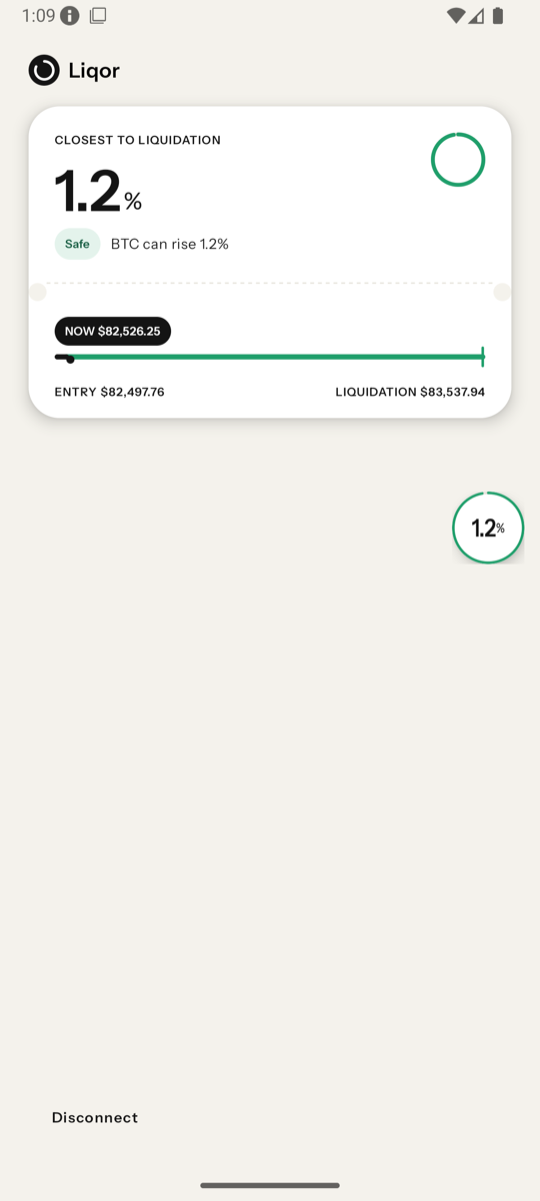
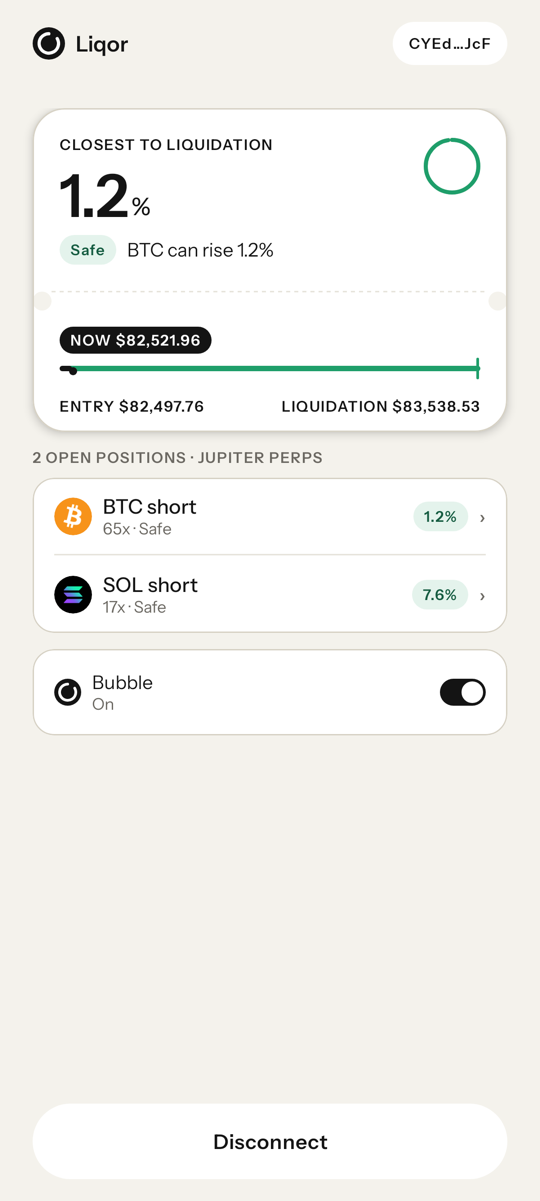
Show every main screen in the README at one size

diff --git a/README.md b/README.md
@@ -8,18 +8,28 @@ Open a leveraged Jupiter Perps trade, switch to X, Telegram or a game, and the m
   <tr>
     <td><img src="screenshots/bubble.png" width="240" alt="Bubble over Jupiter"></td>
     <td><img src="screenshots/panel.png" width="240" alt="Panel with train lines"></td>
-    <td><img src="screenshots/home.png" width="240" alt="Home screen"></td>
+    <td><img src="screenshots/home.png" width="240" alt="Home with positions and Bubble switch"></td>
   </tr>
   <tr>
-    <td><img src="screenshots/first-launch.png" width="240" alt="First launch with sample"></td>
-    <td><img src="screenshots/overlay-permission.png" width="240" alt="Overlay permission steps"></td>
-    <td><img src="screenshots/notification-permission.png" width="240" alt="Notification permission"></td>
+    <td><img src="screenshots/intro-before-after.png" width="240" alt="Intro: without and with Liqor"></td>
+    <td><img src="screenshots/intro-watches.png" width="240" alt="Intro: what Liqor watches"></td>
+    <td><img src="screenshots/intro-bubble-demo.png" width="240" alt="Intro: bubble gestures"></td>
+  </tr>
+  <tr>
+    <td><img src="screenshots/first-launch.png" width="240" alt="First launch"></td>
+    <td><img src="screenshots/overlay-permission.png" width="240" alt="Overlay permission sheet"></td>
+    <td><img src="screenshots/notification-permission.png" width="240" alt="Notification permission sheet"></td>
+  </tr>
+  <tr>
+    <td><img src="screenshots/bubble-on.png" width="240" alt="Bubble is on"></td>
+    <td><img src="screenshots/could-not-check.png" width="240" alt="Couldn't reach positions"></td>
+    <td><img src="screenshots/wallet-failed.png" width="240" alt="Wallet didn't respond"></td>
   </tr>
 </table>
 
-<img src="screenshots/bubble-states.png" width="720" alt="Bubble states: safe, caution, danger, stale, unknown, sample">
+<img src="screenshots/bubble-states.png" width="720" alt="Bubble states: safe, caution, danger, stale, unknown">
 
-The first row is from a live run against mainnet positions. The second row and the bubble states are rendered from the app's snapshot tests.
+The bubble and panel shots are from a live run against mainnet positions. The other screens and the bubble states are rendered from the app's snapshot tests.
 
 ## What it does
 
